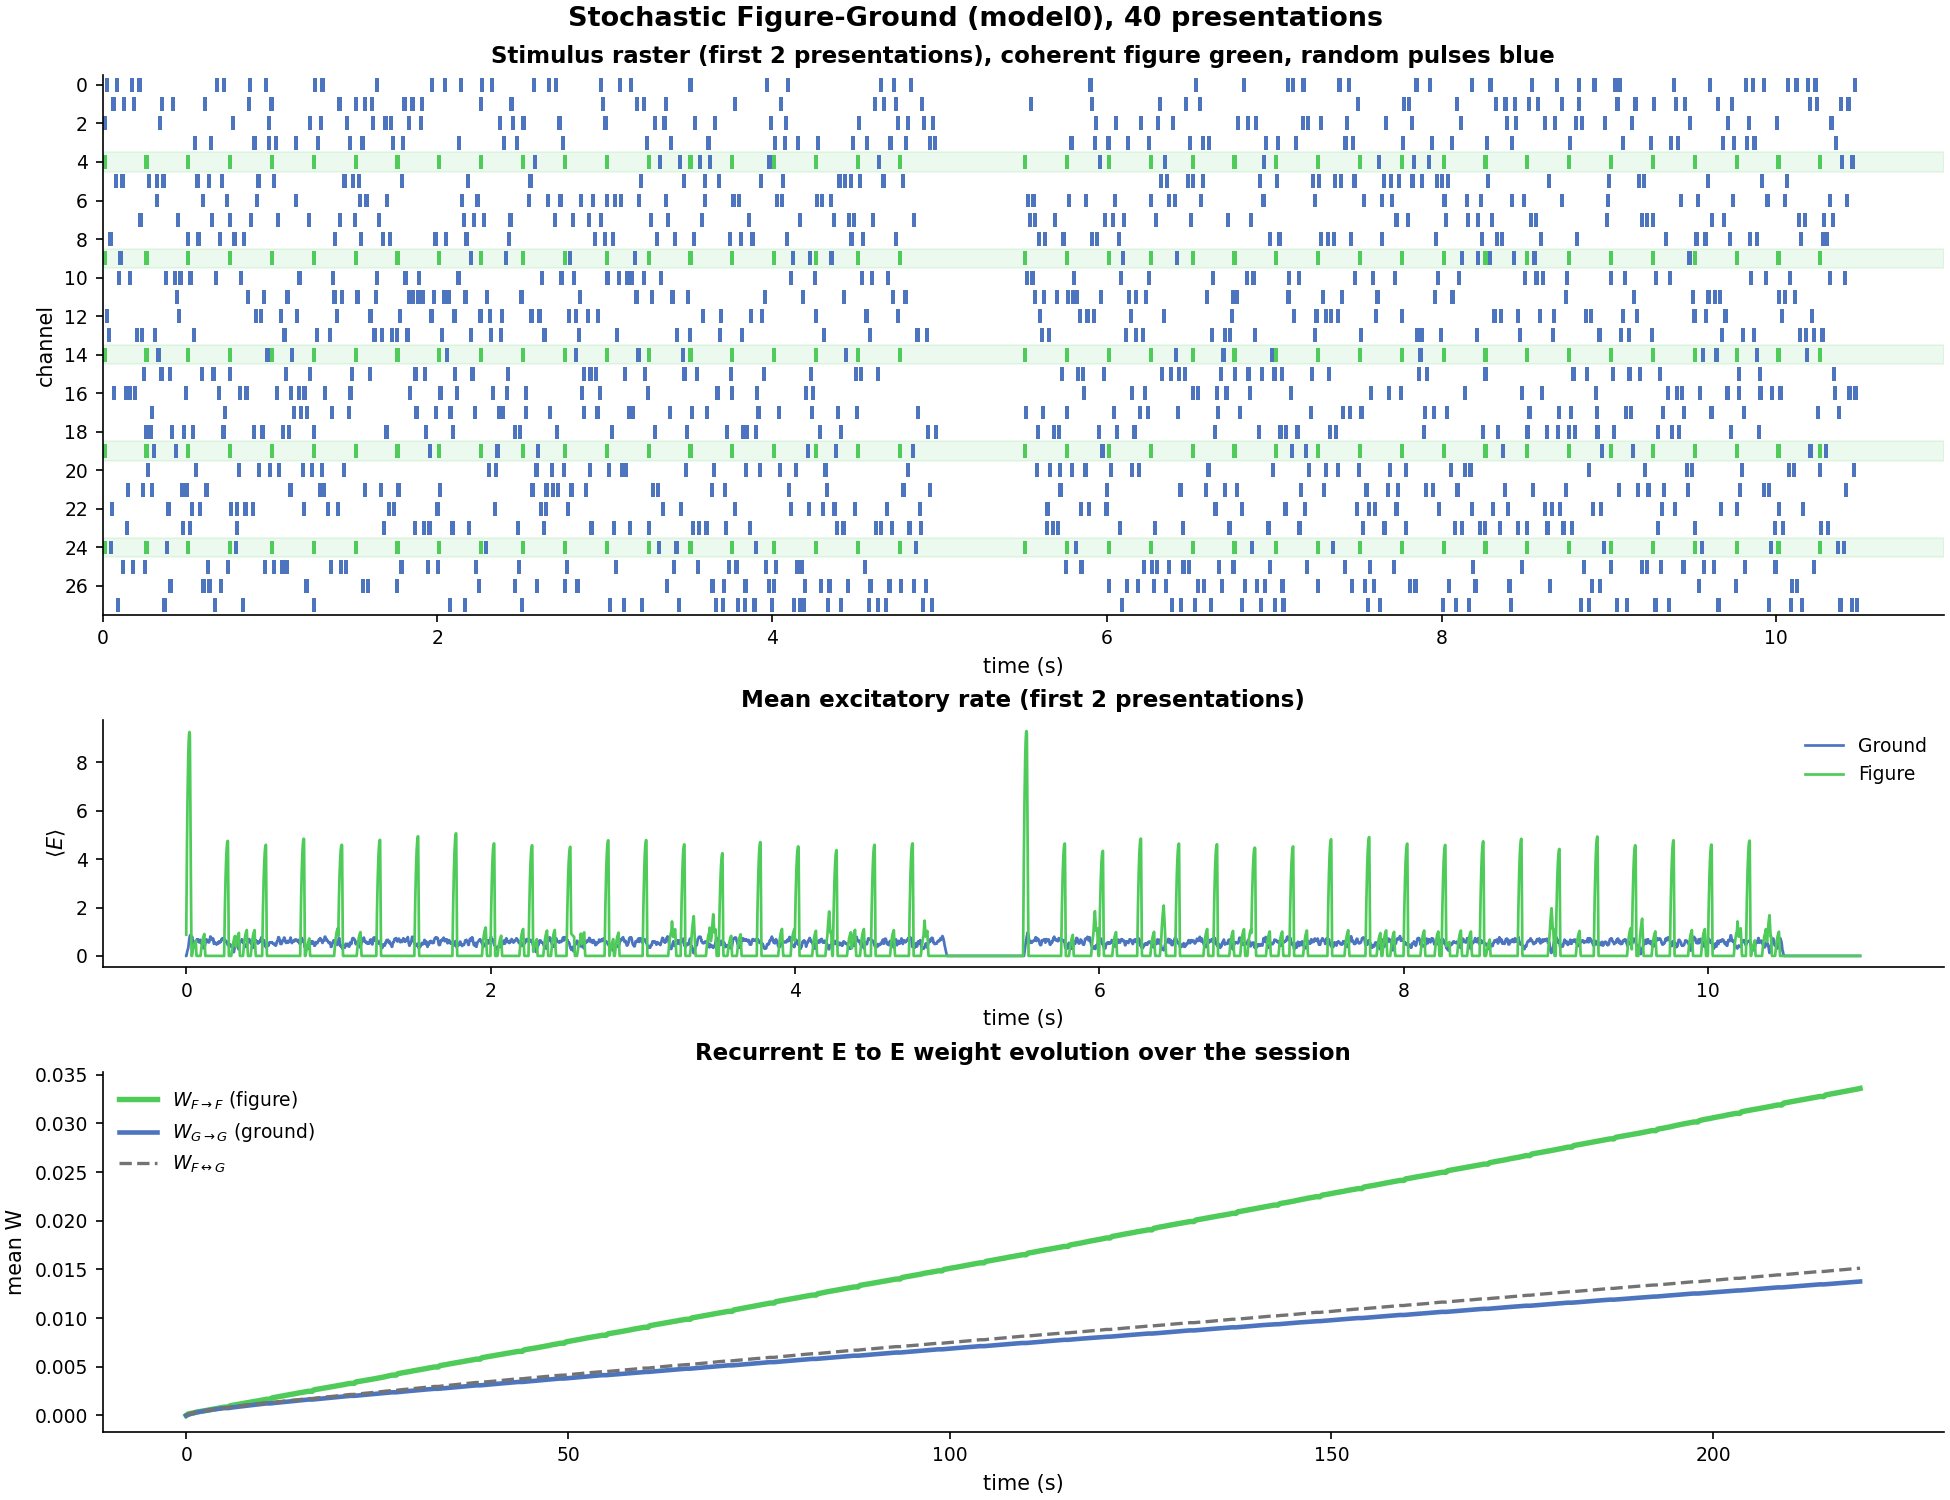
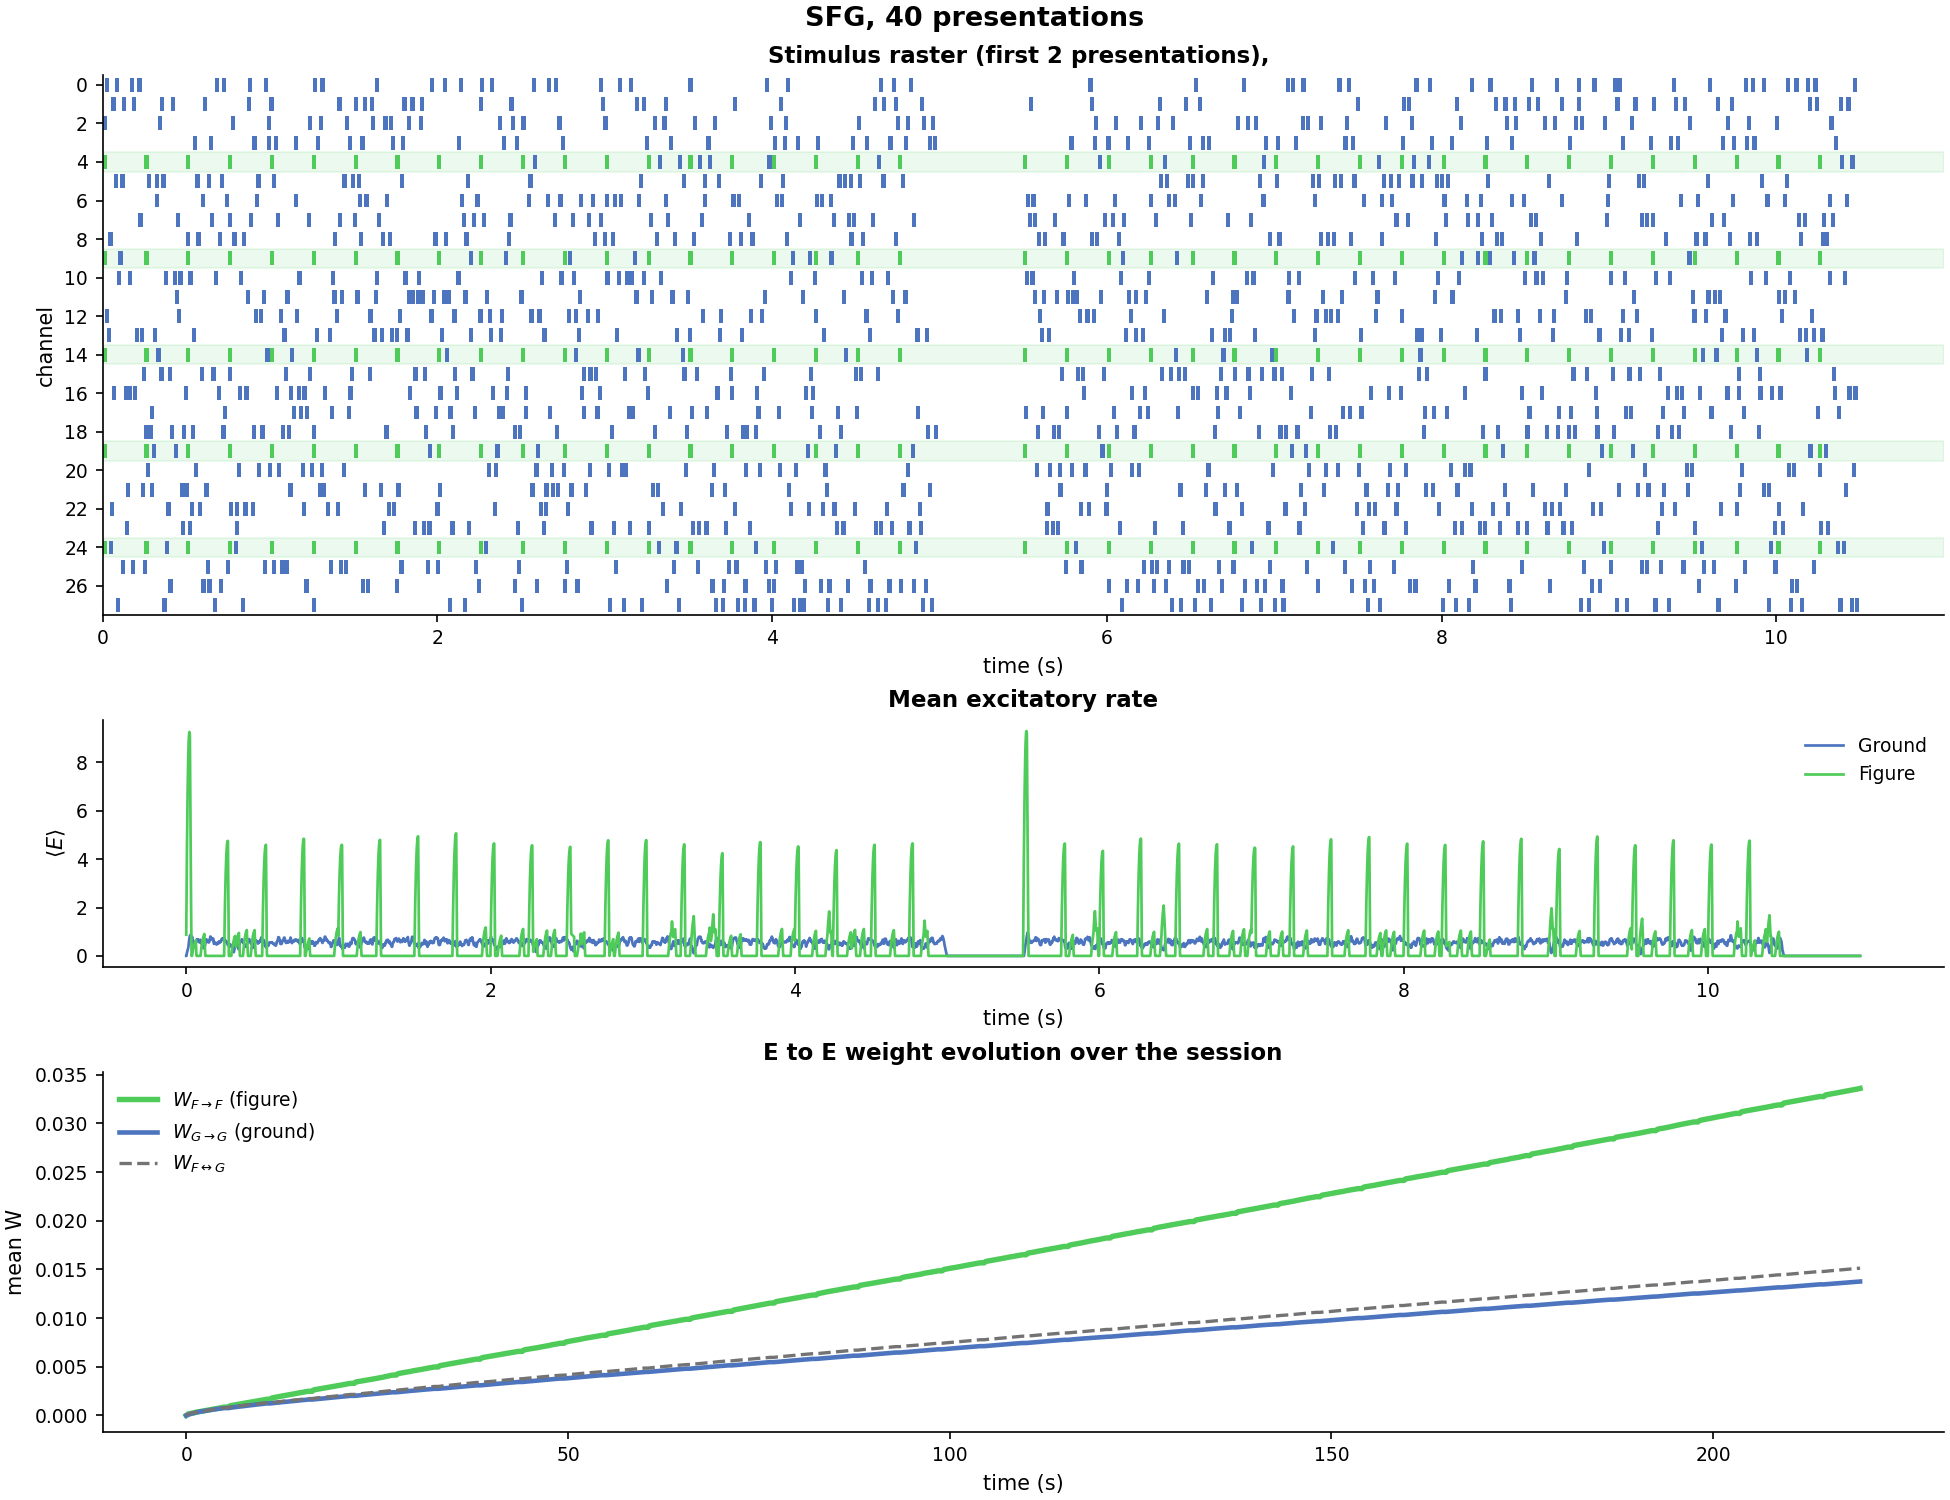
SFG: add whole-session synaptic-drive figure; keep user's shorter titles
New plot_sfg_drive(): a 3-panel synaptic-input figure (inhibition,
excitation, net drive) for the figure vs ground channels, spanning the
whole multi-presentation session -- the companion to the MATLAB SFG
'synaptic inputs' figure, but over the long session so the overall
behaviour is what shows.

Traces are smoothed with a 1 s moving average: at full session length
the per-pulse detail is not resolvable, so the smoothed envelope is the
honest representation -- it shows the per-presentation structure (the
~40 trial blocks), the figure-vs-ground levels, and the slow drift as
the figure connection is learned.  The figure/ground gap is shaded so
it stays visible even where the two envelopes nearly coincide.

Also: kept the user's edited (shorter) plot titles -- 'SFG' instead of
'Stochastic Figure-Ground (model0)', dropped the CV suffixes and the
'(first 2 presentations)' / 'Recurrent' qualifiers.

Changed region(s): [[0.2462, 0.0, 0.8, 0.0613], [0.3692, 0.6747, 0.6769, 0.7053], [0.3692, 0.46, 0.6769, 0.4907]]

diff --git a/tasks/sfg_model0/sfg.py b/tasks/sfg_model0/sfg.py
@@ -304,16 +304,16 @@ def plot_sfg_marginals(res: dict, fname: str):
     ax.plot(range(N), tm, color="0.20", lw=1.5, marker="o", ms=3)
     ax.axhline(tm.mean(), color="0.65", ls=":", lw=1.0)
     ax.set_ylim(0, tm.max() * 1.4)
-    _setup_axes(ax, title=f"time marginal (per channel), CV "
-                          f"{tm.std()/tm.mean()*100:.1f}%",
+    _setup_axes(ax, title=f"time marginal (per channel)",
+                          # f"{tm.std()/tm.mean()*100:.1f}%",
                 xlabel="channel", ylabel="mean activity")
 
     ax = axes[1]
     ax.plot(bc, fm, color="0.20", lw=1.5)
     ax.axhline(fm.mean(), color="0.65", ls=":", lw=1.0)
     ax.set_ylim(0, fm.max() * 1.4)
-    _setup_axes(ax, title=f"freq marginal (per 250 ms bin), CV "
-                          f"{fm.std()/fm.mean()*100:.1f}%",
+    _setup_axes(ax, title=f"freq marginal (per 250 ms bin)",
+                          # f"{fm.std()/fm.mean()*100:.1f}%",
                 xlabel="time (s)", ylabel="mean activity")
 
     fig.savefig(fname, dpi=150)
@@ -337,14 +337,14 @@ def plot_sfg_run(res: dict, fname: str):
 
     fig = plt.figure(figsize=(13, 10), constrained_layout=True)
     gs = fig.add_gridspec(3, 1, height_ratios=[2.4, 1.1, 1.6])
-    fig.suptitle(f"Stochastic Figure-Ground (model0), "
+    fig.suptitle(f"SFG, "
                  f"{res['n_trials']} presentations",
                  fontsize=13, fontweight="bold")
 
     ax = fig.add_subplot(gs[0])
     _draw_raster(ax, res, 0, hi)
     _setup_axes(ax, title="Stimulus raster (first 2 presentations), "
-                          "coherent figure green, random pulses blue",
+                          "",
                 xlabel="time (s)", ylabel="channel")
 
     ax = fig.add_subplot(gs[1])
@@ -353,7 +353,7 @@ def plot_sfg_run(res: dict, fname: str):
     ax.plot(t[:hi], E[fig_idx][:, :hi].mean(0), color=COL_FIG, lw=1.3,
             label="Figure")
     ax.legend(fontsize=9, frameon=False, loc="upper right")
-    _setup_axes(ax, title="Mean excitatory rate (first 2 presentations)",
+    _setup_axes(ax, title="Mean excitatory rate",
                 xlabel="time (s)", ylabel=r"$\langle E\rangle$")
 
     ax = fig.add_subplot(gs[2])
@@ -366,7 +366,7 @@ def plot_sfg_run(res: dict, fname: str):
         ax.plot(W_t, FG, color="0.45", lw=1.6, ls="--",
                 label=r"$W_{F\leftrightarrow G}$")
         ax.legend(fontsize=9, frameon=False, loc="upper left")
-    _setup_axes(ax, title="Recurrent E to E weight evolution over the session",
+    _setup_axes(ax, title="E to E weight evolution over the session",
                 xlabel="time (s)", ylabel="mean W")
 
     fig.savefig(fname, dpi=150)
@@ -407,6 +407,68 @@ def plot_sfg_W(res: dict, fname: str):
     return fig
 
 
+def _smooth(x: np.ndarray, win: int) -> np.ndarray:
+    """Centred moving average of width ``win`` samples."""
+    if win <= 1:
+        return x
+    k = np.ones(win) / win
+    return np.convolve(x, k, mode="same")
+
+
+def plot_sfg_drive(res: dict, fname: str,
+                   smooth_ms: float = 1000.0, ds: int = 50):
+    """Synaptic drive over the whole session: the inhibition, the
+    excitation, and the net drive received by the figure vs the ground
+    channels.  Companion to the MATLAB SFG 'synaptic inputs' figure.
+
+    Traces are smoothed with a ``smooth_ms`` moving average: at full
+    session length (tens of trials) the per-pulse detail is not
+    resolvable, so the smoothed envelope is what conveys the overall
+    behaviour -- the figure-vs-ground levels and how they drift as the
+    figure connection is learned.  ``ds`` downsamples for display only.
+    """
+    cfg = res["cfg"]; dt = cfg.dt
+    fig_idx, gnd_idx = res["fig_idx"], res["gnd_idx"]
+    win = max(1, int(round(smooth_ms * 1e-3 / dt)))
+
+    inh = res["inh_to_E"]
+    exc = res["tm_in"] + res["rec_E"]
+    net = exc - inh
+    t = res["t"][::ds]
+
+    def env(arr, idx):
+        return _smooth(arr[idx].mean(0), win)[::ds]
+
+    fig, axes = plt.subplots(3, 1, figsize=(15, 9), constrained_layout=True,
+                             sharex=True)
+    fig.suptitle(f"SFG synaptic drive over the session "
+                 f"({smooth_ms:.0f} ms moving average)",
+                 fontsize=12, fontweight="bold")
+
+    panels = [
+        (axes[0], inh, "Inhibition received", "inhibitory current", False),
+        (axes[1], exc, "Excitation received", "excitatory current", False),
+        (axes[2], net, "Net synaptic drive", "net drive", True),
+    ]
+    for ax, arr, title, ylab, zero in panels:
+        if zero:
+            ax.axhline(0, color="0.6", lw=0.7)
+        eg = env(arr, gnd_idx)
+        ef = env(arr, fig_idx)
+        # shade the figure-vs-ground gap so it is visible even where the
+        # two envelopes nearly coincide
+        ax.fill_between(t, eg, ef, color="0.55", alpha=0.30, lw=0)
+        ax.plot(t, eg, color=COL_GND, lw=1.3, label="Ground")
+        ax.plot(t, ef, color=COL_FIG, lw=1.3, label="Figure")
+        ax.legend(fontsize=9, frameon=False, loc="upper right")
+        _setup_axes(ax, title=title, ylabel=ylab)
+    axes[2].set_xlabel("time (s)", fontsize=10)
+
+    fig.savefig(fname, dpi=150)
+    print(f"  saved {fname}")
+    return fig
+
+
 # =====================================================================
 #  Main
 # =====================================================================
@@ -426,6 +488,7 @@ def main():
     plot_sfg_marginals(res, "sfg_m0_marginals.png")
     plot_sfg_run(res,       "sfg_m0_run.png")
     plot_sfg_W(res,         "sfg_m0_W.png")
+    plot_sfg_drive(res,     "sfg_m0_drive.png")
 
     W = res["W_final"]
     W_FF, W_GG, W_FG = compute_W_groups(W, fig_idx, res["gnd_idx"])
